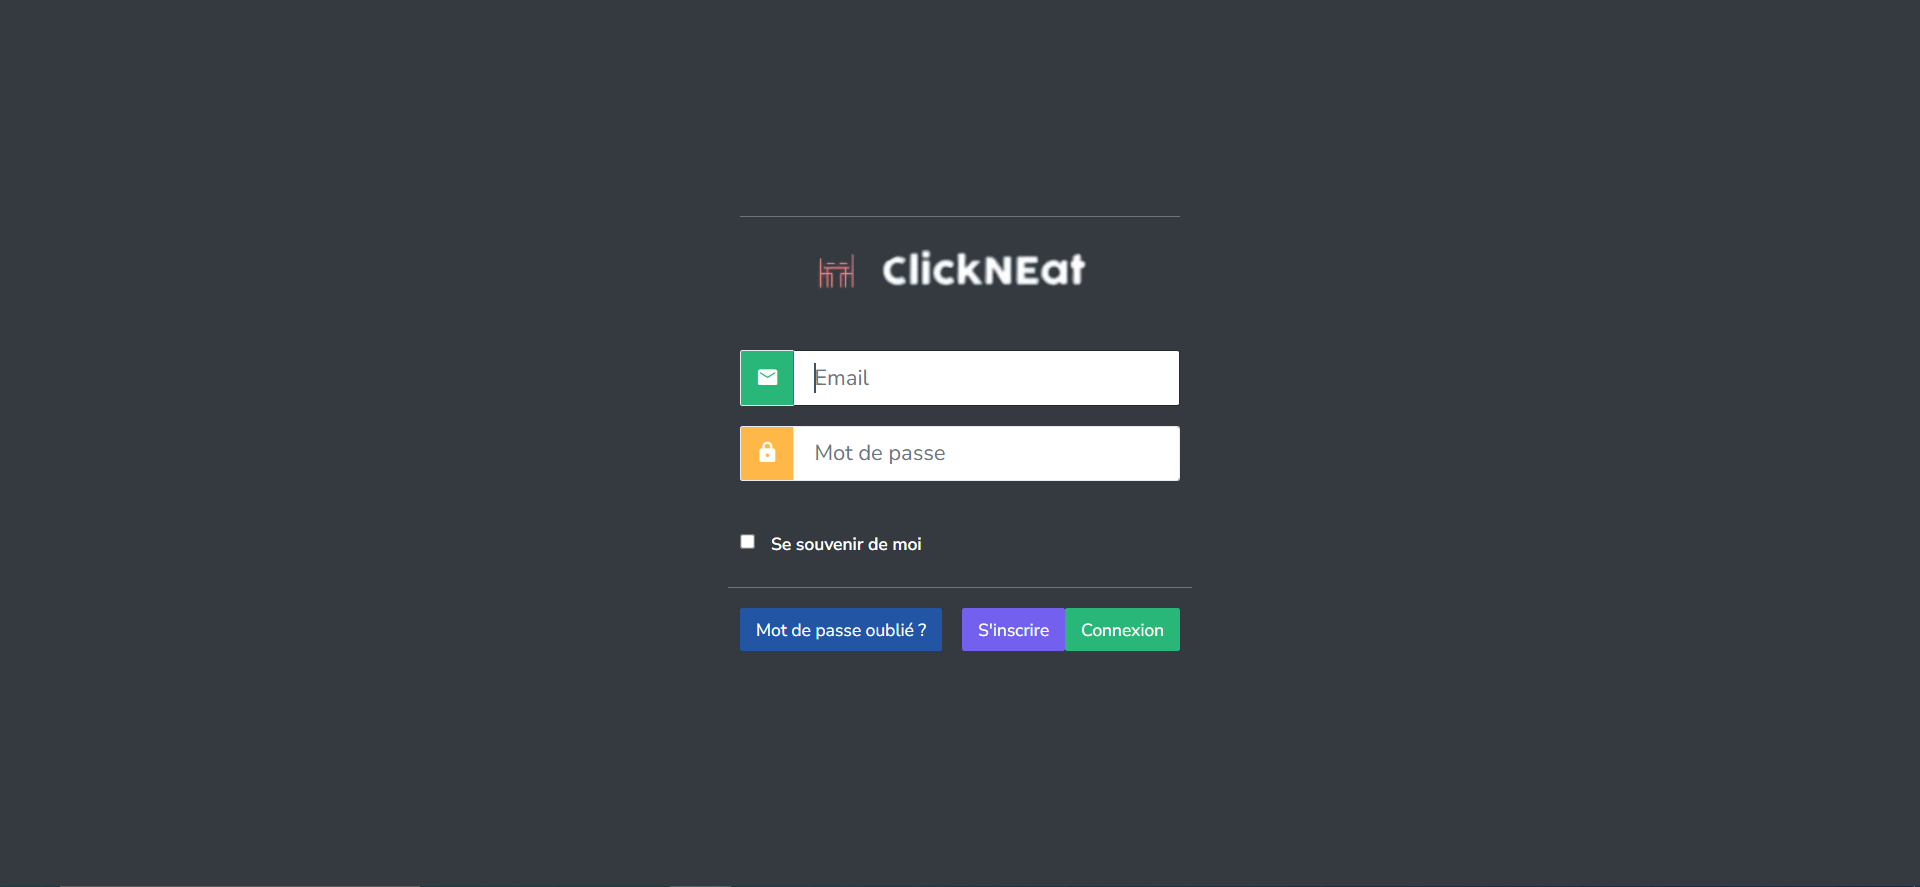
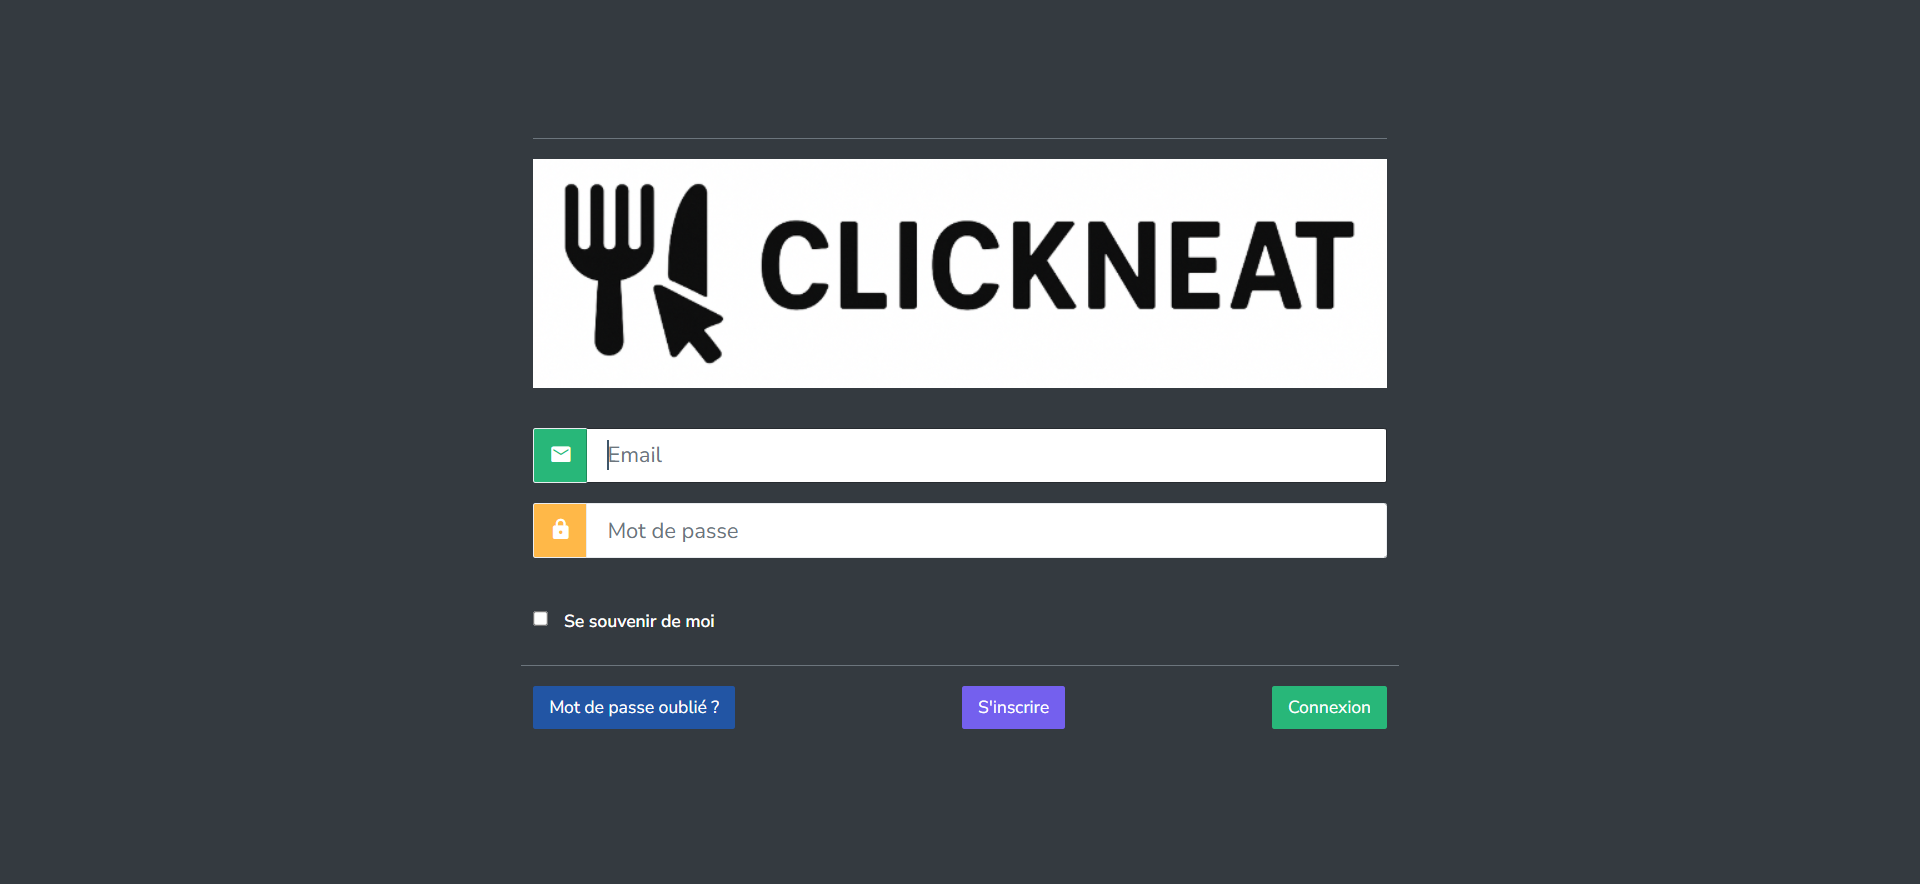
nouvelles images cools

diff --git a/src/pages/projectClickNEat.php b/src/pages/projectClickNEat.php
@@ -39,7 +39,7 @@ $pageTitle = 'ProjectClickNEat - Adrien Berthe';
                     <img src="/public/assets/images/ClickNEatAdmin.PNG" class="img-responsive" alt="Interface d'administration ClickNEat">
                 </div>
                 <div class="image-item animate-box">
-                    <img src="/public/assets/images/clickNEatReservation.PNG" class="img-responsive" alt="Espace de réservation client">
+                    <img src="/public/assets/images/ClickNEatClient.PNG" class="img-responsive" alt="Espace de réservation client">
                 </div>
             </div>            
         </div>
